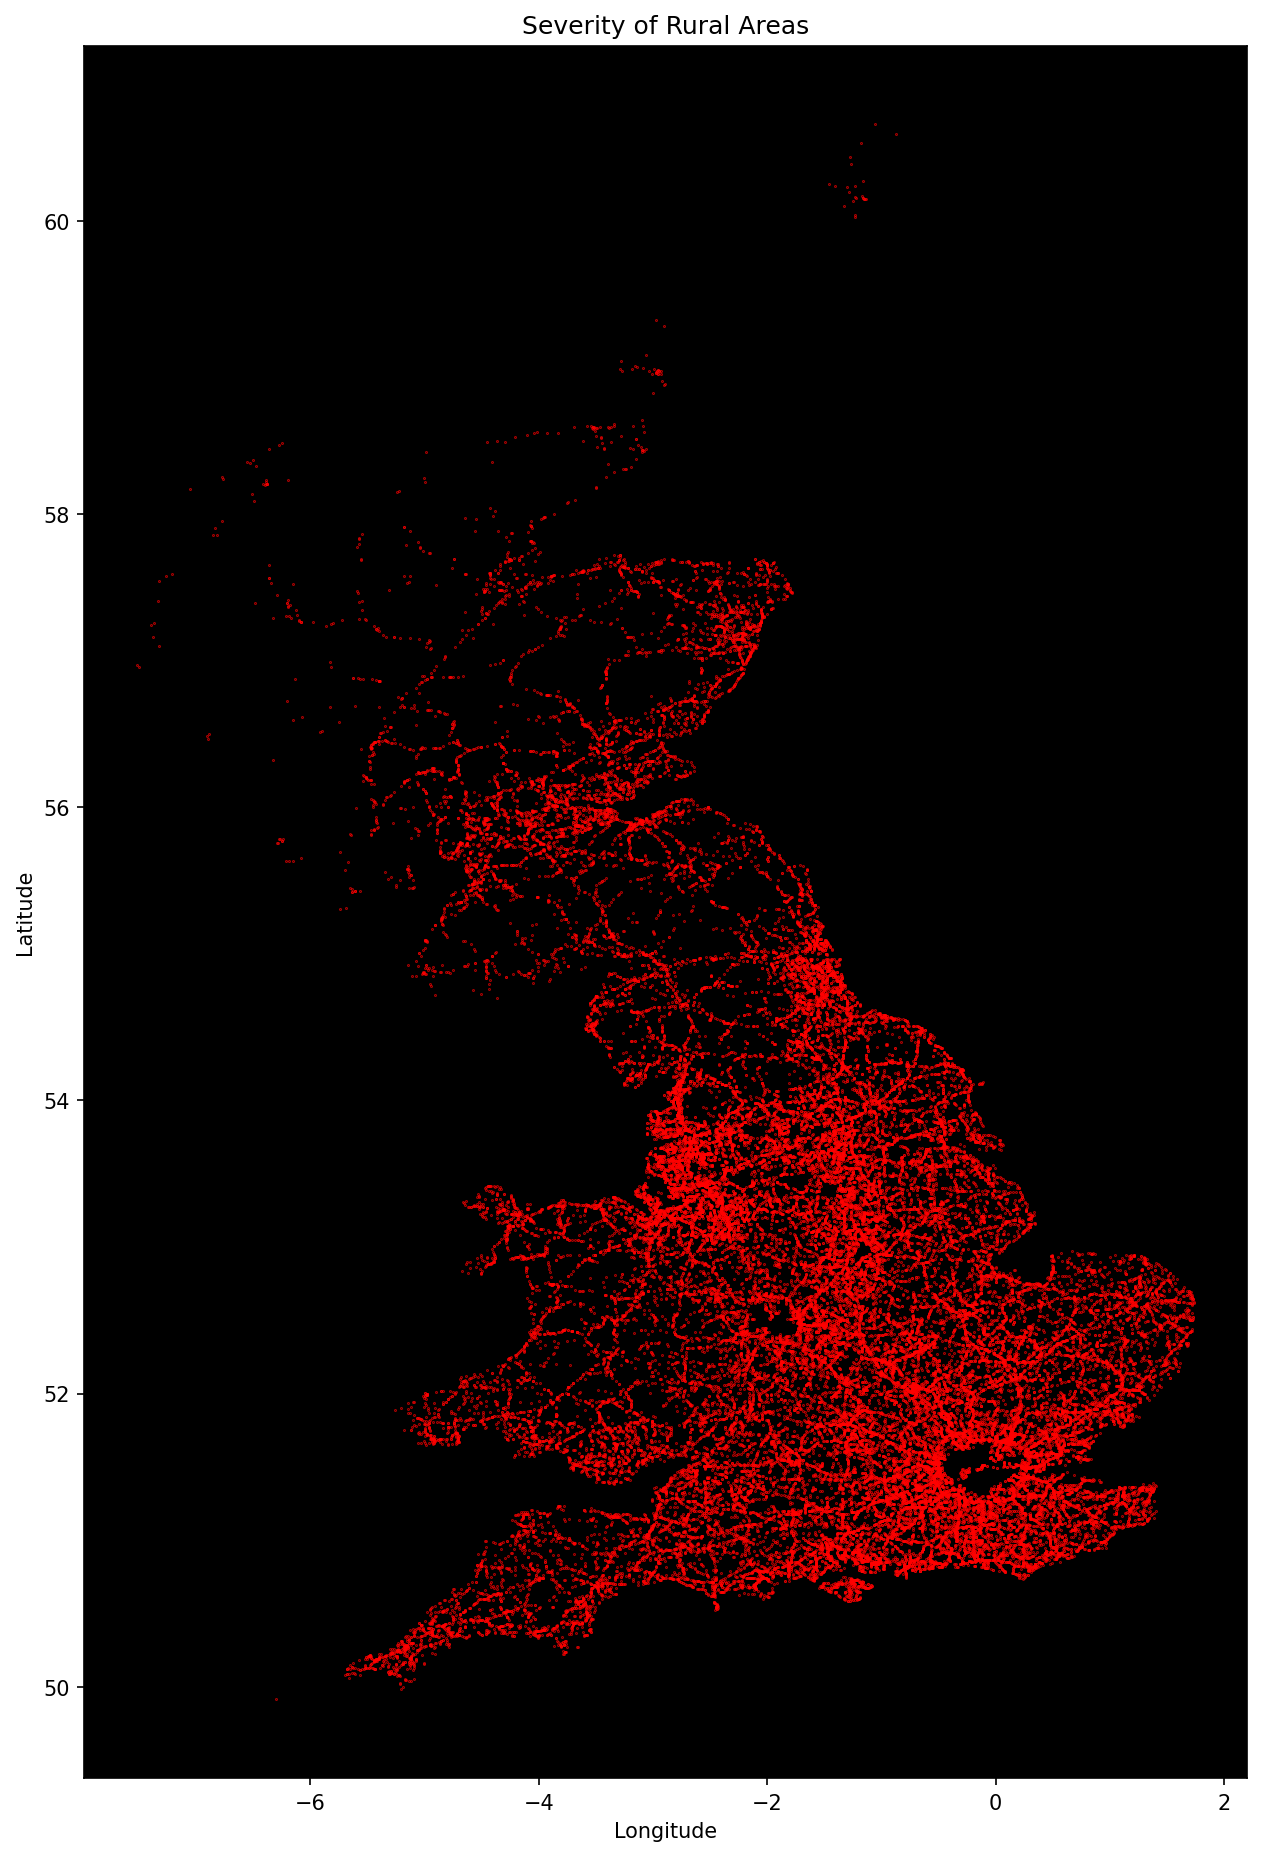
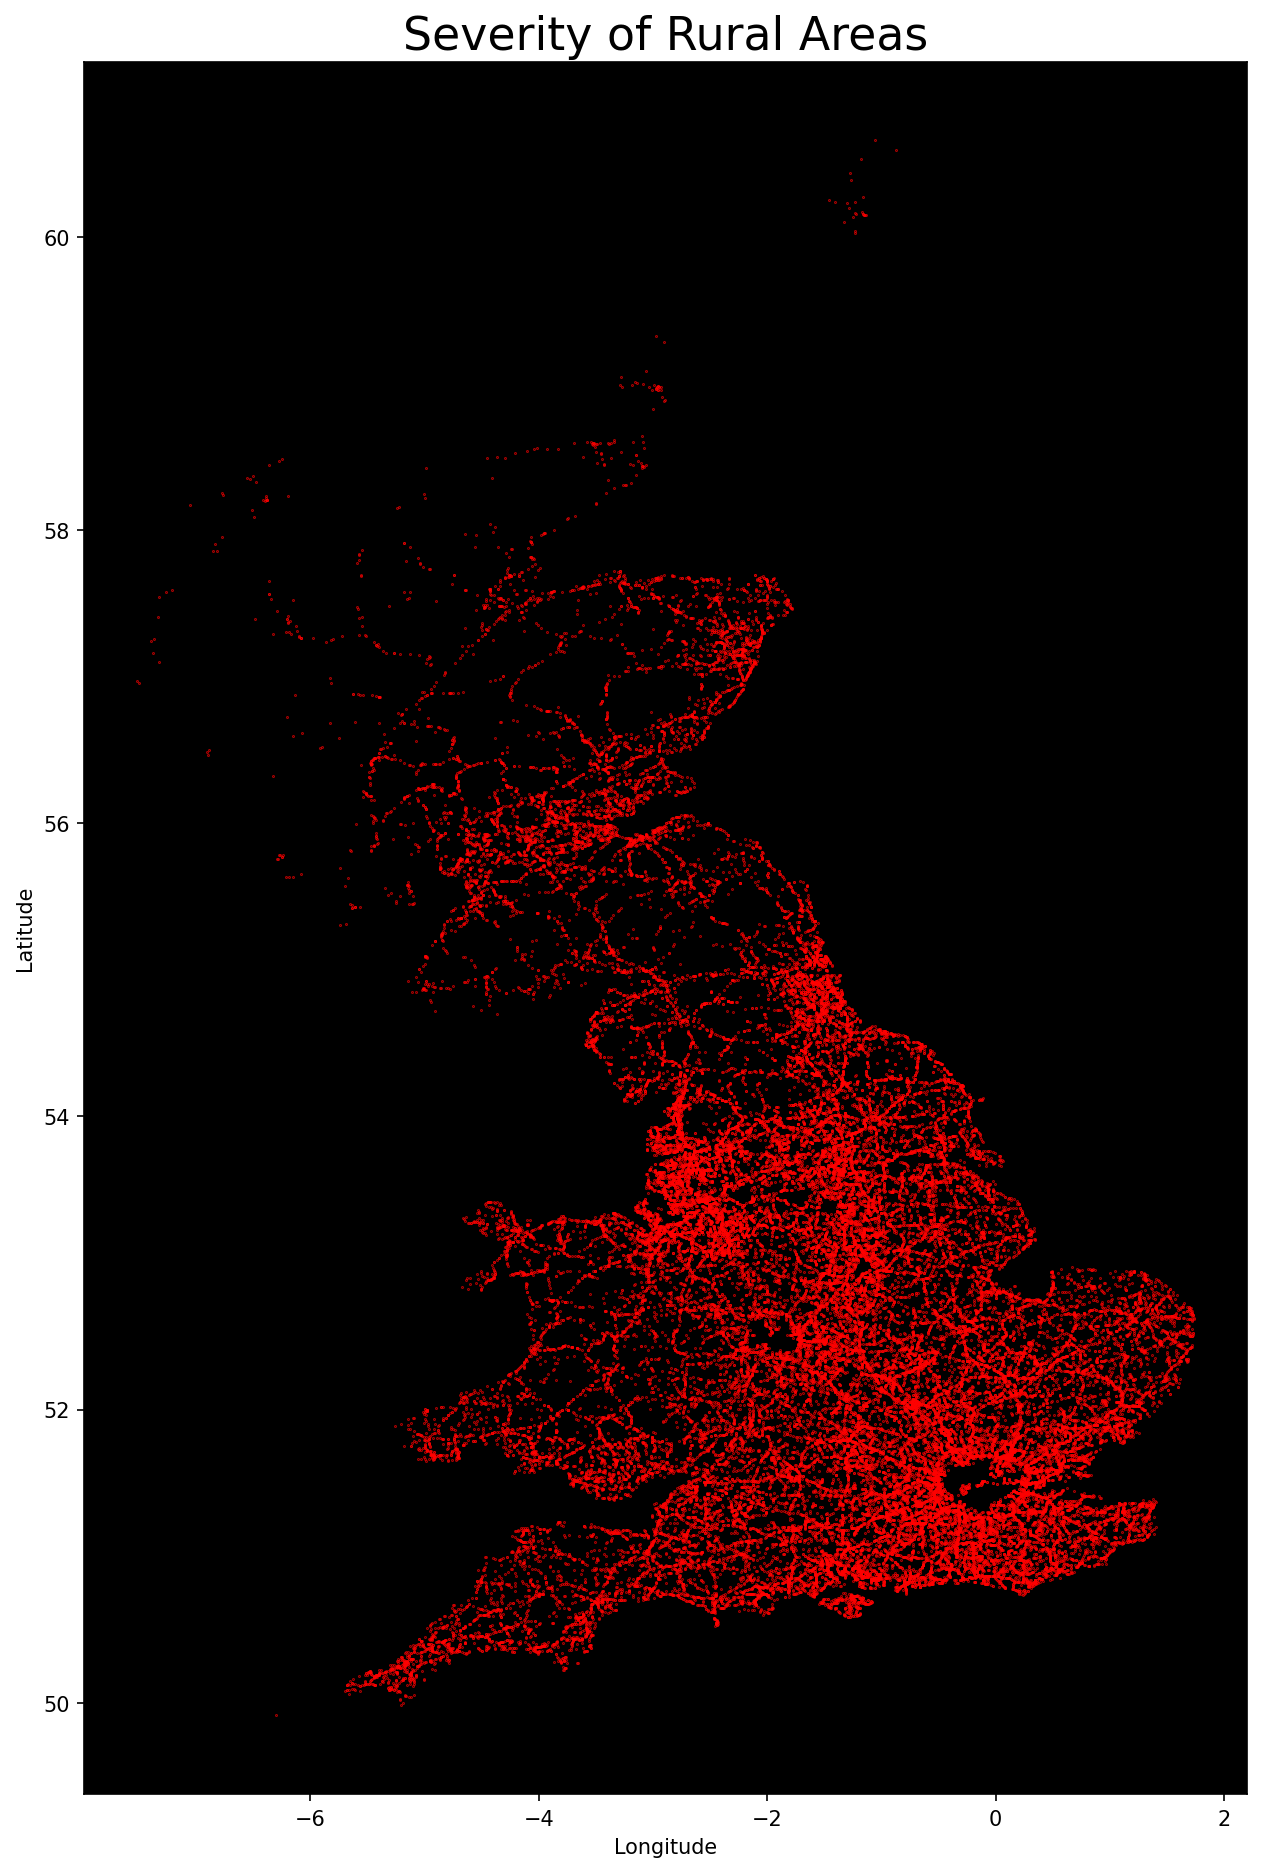
updated plot sizes

diff --git a/src/uk_eda.py b/src/uk_eda.py
@@ -9,7 +9,7 @@ def geographic_plot(conditon, color, title, facecolor, save_loc):
     conditon.plot(kind='scatter', x='Longitude',y ='Latitude',
                 color=color, 
                 s=.1, alpha=.9, subplots=True, ax=ax)
-    ax.set_title(title)
+    ax.set_title(title, fontsize=22)
     ax.set_facecolor(facecolor)
     plt.savefig(save_loc, dpi=150, bbox_inches = 'tight')
 
@@ -37,9 +37,9 @@ def plots_with_severity_groups(df1, df2, ylab, title, save_loc):
     y2 = df2.iloc[:,1]
     ax.bar(x1, y1, color='royalblue', width=bar_width, align='edge', label='Minor')
     ax.bar(x2, y2, color='tomato', width=-bar_width, align='edge', label='Severe')
-    plt.xticks(rotation=45, fontsize=14, horizontalalignment='center')
-    ax.set_ylabel(ylab, fontsize=15)
-    ax.set_title(title, fontsize=20)
+    plt.xticks(rotation=45, fontsize=20, horizontalalignment='center')
+    ax.set_ylabel(ylab, fontsize=20)
+    ax.set_title(title, fontsize=22)
     fig.tight_layout()
     ax.legend(fontsize= 14)
     plt.savefig(save_loc, dpi=150, bbox_inches = 'tight')
@@ -55,11 +55,11 @@ def plots_with_severity_groups_ratios(df1, df2, ylab, title, save_loc):
     y2 = df2.iloc[:,1]
     ax.bar(x1, (y1/(y1+y2)), color='royalblue', width=bar_width, align='edge', label='Minor')
     ax.bar(x2, (y2/(y1+y2)), color='tomato', width=-bar_width, align='edge', label='Severe')
-    plt.xticks(rotation=45, fontsize=14, horizontalalignment='center')
-    ax.set_ylabel(ylab, fontsize=15)
-    ax.set_title(title, fontsize=20)
+    plt.xticks(rotation=45, fontsize=20, horizontalalignment='center')
+    ax.set_ylabel(ylab, fontsize=20)
+    ax.set_title(title, fontsize=22)
     fig.tight_layout()
-    ax.legend(fontsize= 14)
+    ax.legend()
     plt.savefig(save_loc, dpi=150, bbox_inches = 'tight')
 
 
@@ -69,10 +69,10 @@ if __name__ == '__main__':
     acc_df = pd.read_csv('../data/cleaned_data.csv')
 
     # Map plot showing lat and long of speed limit of Severe Accidents
-    # condition = acc_df[(acc_df['Accident_Severity'] == 1) & (acc_df['Speed_limit'] >= 60)]
+    condition = acc_df[(acc_df['Accident_Severity'] == 1) & (acc_df['Speed_limit'] >= 60)]
     # geographic_plot(condition, 'yellow', 'Severity of High Speed Limits', 'Black')
 
-    # condition2 = acc_df[(acc_df['Accident_Severity'] == 1) & (acc_df['Speed_limit'] < 60)]
+    condition2 = acc_df[(acc_df['Accident_Severity'] == 1) & (acc_df['Speed_limit'] < 60)]
     # geographic_plot(condition2, 'yellow', 'Severity of Low Speed Limits', 'Black')
 
     condition3 = acc_df[(acc_df['Accident_Severity'] == 1) & (acc_df['Urban_or_Rural_Area'] == 0)]
@@ -89,8 +89,8 @@ if __name__ == '__main__':
     tm_0 = not_severe.groupby(['Hour_of_Day'])['Accident_Index'].count().reset_index()
     tm_1 = is_severe.groupby(['Hour_of_Day'])['Accident_Index'].count().reset_index()
 
-    # plots_with_severity_groups(tm_0, tm_1, "Number of Accidents", 'Accidents By Hour', '../images/hour_count.png')
-    # plots_with_severity_groups_ratios(tm_0, tm_1, "Percent of Accidents", 'Percentage of Accidents By Hour', '../images/hour_pt.png')
+    plots_with_severity_groups(tm_0, tm_1, "Number of Accidents", 'Accidents By Hour', '../images/hour_count.png')
+    plots_with_severity_groups_ratios(tm_0, tm_1, "Percent of Accidents", 'Percentage of Accidents By Hour', '../images/hour_pt.png')
 
 
 

diff --git a/README.md b/README.md
@@ -82,7 +82,7 @@ Standarized the data in order to be able to compare coefficients
 
 * Perform a predictive model to determine future accidents
 
-* Continue training this model to improve its accuracy - an R-squared of 0.02 is not enough
+* Continue training this model to improve its performance and accuracy - an R-squared of 0.02 is not enough
 
 * Compare feature importance with other models such as random forest and XGBoost
 
